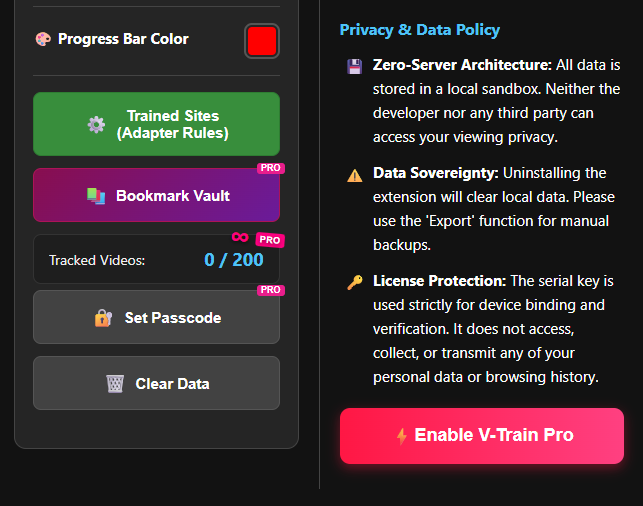
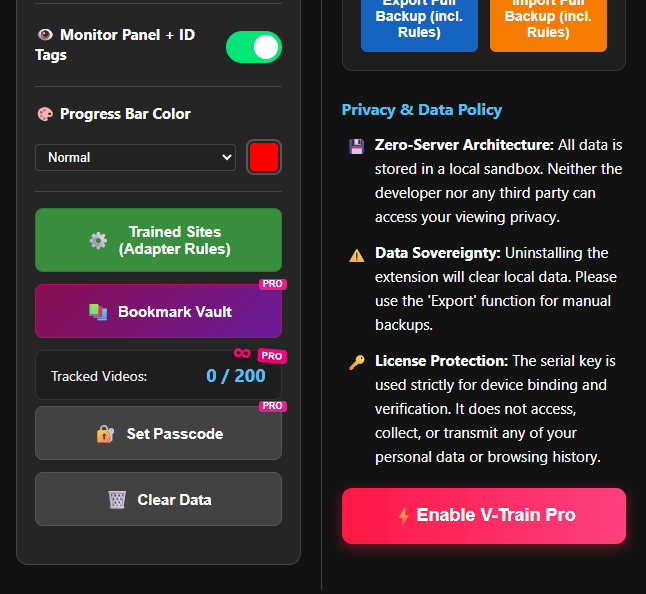
Update manual and layout for progress bar color feature

diff --git a/shared_i18n.js b/shared_i18n.js
@@ -72,7 +72,7 @@ if (typeof globalThis._vt_i18n_loaded === 'undefined') {
             msgShareImportSuccess: "✅ Rule Imported!",
             msgShareImportFail: "❌ Invalid Serial Code",
             serialImport: "Serial Import",
-            barColor: "🎨 Progress Bar Color",
+            barColor: "🎨 Progress Bar Color", colorNormal: "Normal", colorLike: "Like (👍)", colorDislike: "Dislike (😤)",
             modalEnablePro: "⚡ Enable V-Train Pro",
             modalClearData: "⚠ Clear Data",
             modalClearDesc: "Are you sure you want to delete all watch records?<br>(Pro status and settings will be preserved)",
@@ -243,7 +243,7 @@ if (typeof globalThis._vt_i18n_loaded === 'undefined') {
             appliedTo: "已套用:", searchRules: "🔍 搜尋規則...", confirmDelRule: "確定要刪除規則：", delete: "刪除",
             share: "序號複製", pasteRule: "➕ 貼上規則", modalShareTitle: "📥 匯入單站規則", modalShareDesc: "偵測到網站規則：",
             confirmOverwrite: "⚠ 此操作將覆蓋現有規則。確定繼續？", msgShareImportSuccess: "✅ 規則匯入成功！", msgShareImportFail: "❌ 無效的序號分享碼",
-            serialImport: "序號導入", barColor: "🎨 進度條顏色", modalRescueSuccess: "✅ 救援解鎖成功！",
+            serialImport: "序號導入", barColor: "🎨 進度條顏色", colorNormal: "普通", colorLike: "喜歡 (👍)", colorDislike: "不喜歡 (😤)", modalRescueSuccess: "✅ 救援解鎖成功！",
             modalRescueSuccessDesc: "密碼已清除。<br><br>⚠ 為防止未來發生無法預期的鎖定，強烈建議您立即下載完整備份 (觀看紀錄 + 訓練規則)。",
             btnFullBackup: "📥 下載完整備份", communityRules: "🌐 瀏覽社群共享規則 (GitHub)", modalFreeLimit: "⚠ 免費版容量限制",
             modalFreeLimitDesc: "偵測到備份含有超過 200 部紀錄。由於您目前使用的是免費版本，匯入後系統將僅保留最新的 200 部 (自動清理至 190 部)。若要保留完整紀錄，請先啟用 Pro 版。<br><br>確定要繼續匯入？",
@@ -400,7 +400,7 @@ if (typeof globalThis._vt_i18n_loaded === 'undefined') {
             appliedTo: "已应用:", searchRules: "🔍 搜索规则...", confirmDelRule: "确定要删除规则：", delete: "删除",
             share: "序号复制", pasteRule: "➕ 粘贴规则", modalShareTitle: "📥 导入单站规则", modalShareDesc: "侦测到网站规则：",
             confirmOverwrite: "⚠ 此操作将覆盖现有规则。确定继续？", msgShareImportSuccess: "✅ 规则导入成功！", msgShareImportFail: "❌ 无效的序号分享码",
-            serialImport: "序号导入", barColor: "🎨 进度条颜色", modalRescueSuccess: "✅ 救援解锁成功！",
+            serialImport: "序号导入", barColor: "🎨 进度条颜色", colorNormal: "普通", colorLike: "喜欢 (👍)", colorDislike: "不喜欢 (😤)", modalRescueSuccess: "✅ 救援解锁成功！",
             modalRescueSuccessDesc: "密码已清除。<br><br>⚠ 为防止未来发生无法预期的锁定，强烈建议您立即下载完整备份 (观看记录 + 训练规则)。",
             btnFullBackup: "📥 下载完整备份", communityRules: "🌐 浏览社区共享规则 (GitHub)", modalFreeLimit: "⚠ 免费版容量限制",
             modalFreeLimitDesc: "侦测到备份含有超过 200 部记录。由于您目前使用的是免费版本，导入后系统将仅保留最新的 200 部 (自动清理至 190 部)。若要保留完整记录，请先激活 Pro 版。<br><br>确定要继续导入？",
@@ -557,7 +557,7 @@ if (typeof globalThis._vt_i18n_loaded === 'undefined') {
             appliedTo: "適用:", searchRules: "🔍 ルールを検索...", confirmDelRule: "ルールを削除しますか：", delete: "削除",
             share: "シリアルコピー", pasteRule: "➕ ルールを貼り付け", modalShareTitle: "📥 ルールのインポート", modalShareDesc: "検出されたルール：",
             confirmOverwrite: "⚠ 既存のルールが上書きされます。続行しますか？", msgShareImportSuccess: "✅ インポート成功！", msgShareImportFail: "❌ 無効なコード",
-            serialImport: "シリアル導入", barColor: "🎨 プログレスバーの色", modalRescueSuccess: "✅ 救出成功！",
+            serialImport: "シリアル導入", barColor: "🎨 プログレスバーの色", colorNormal: "普通", colorLike: "好き (👍)", colorDislike: "嫌い (😤)", modalRescueSuccess: "✅ 救出成功！",
             modalRescueSuccessDesc: "パスコードをクリアしました。<br><br>⚠ 今後のロックアウトを防ぐため、完全なバックアップ（記録＋ルール）を今すぐダウンロードしてください。",
             btnFullBackup: "📥 完全バックアップをダウンロード", communityRules: "🌐 コミュニティルールを表示 (GitHub)", modalFreeLimit: "⚠ 無料版の制限",
             modalFreeLimitDesc: "200件以上の記録が検出されました。無料版を使用しているため、最新の200件（自動で190件に整理）のみが保持されます。すべての記録を保持するにはPro版を有効にしてください。続行しますか？",
@@ -714,7 +714,7 @@ if (typeof globalThis._vt_i18n_loaded === 'undefined') {
             appliedTo: "적용됨:", searchRules: "🔍 규칙 검색...", confirmDelRule: "규칙을 삭제하시겠습니까:", delete: "삭제",
             share: "시리얼 복사", pasteRule: "➕ 규칙 붙여넣기", modalShareTitle: "📥 규칙 가져오기", modalShareDesc: "감지된 규칙:",
             confirmOverwrite: "⚠ 기존 규칙을 덮어씁니다. 계속하시겠습니까?", msgShareImportSuccess: "✅ 가져오기 성공!", msgShareImportFail: "❌ 잘못된 코드",
-            serialImport: "시리얼 가져오기", barColor: "🎨 진행률 표시줄 색상", modalRescueSuccess: "✅ 구조 성공!",
+            serialImport: "시리얼 가져오기", barColor: "🎨 진행률 표시줄 색상", colorNormal: "보통", colorLike: "좋아요 (👍)", colorDislike: "싫어요 (😤)", modalRescueSuccess: "✅ 구조 성공!",
             modalRescueSuccessDesc: "비밀번호가 삭제되었습니다。<br><br>⚠ 향후 잠금을 방지하려면 지금 전체 백업(기록 + 규칙)을 다운로드하세요.",
             btnFullBackup: "📥 전체 백업 다운로드", communityRules: "🌐 커뮤니티 규칙 보기 (GitHub)", modalFreeLimit: "⚠ 무료 버전 제한",
             modalFreeLimitDesc: "200개 이상의 기록이 감지되었습니다. 무료 버전을 사용 중이므로 최신 200개(190개로 자동 정리)만 유지됩니다. 모든 기록을 유지하려면 Pro 버전을 활성화하세요. 계속하시겠습니까?",
@@ -871,7 +871,7 @@ if (typeof globalThis._vt_i18n_loaded === 'undefined') {
             appliedTo: "Aplicado a:", searchRules: "🔍 Buscar reglas...", confirmDelRule: "Eliminar regla para", delete: "Eliminar",
             share: "Copiar serie", pasteRule: "➕ Pegar regla", modalShareTitle: "📥 Importar regla", modalShareDesc: "Regla detectada para:",
             confirmOverwrite: "⚠ Esto sobrescribirá la regla existente. ¿Continuar?", msgShareImportSuccess: "✅ ¡Regla importada!", msgShareImportFail: "❌ Código inválido",
-            serialImport: "Importar serie", barColor: "🎨 Color de la barra", modalRescueSuccess: "✅ ¡Rescate Exitoso!",
+            serialImport: "Importar serie", barColor: "🎨 Color de la barra", colorNormal: "Normal", colorLike: "Me gusta (👍)", colorDislike: "No me gusta (😤)", modalRescueSuccess: "✅ ¡Rescate Exitoso!",
             modalRescueSuccessDesc: "Código borrado.<br><br>⚠ Para evitar bloqueos, descargue una copia de seguridad completa (Registros + Reglas) ahora.",
             btnFullBackup: "📥 Descargar Copia Completa", communityRules: "🌐 Ver reglas de la comunidad (GitHub)", modalFreeLimit: "⚠ Límite de versión gratuita",
             modalFreeLimitDesc: "Más de 200 registros detectados. Como usuario gratuito, solo se mantendrán los 200 más recientes (recortados a 190). Actualice a Pro para conservarlos todos. ¿Continuar?",
@@ -1028,7 +1028,7 @@ if (typeof globalThis._vt_i18n_loaded === 'undefined') {
             appliedTo: "Appliqué à :", searchRules: "🔍 Rechercher...", confirmDelRule: "Supprimer la règle pour", delete: "Supprimer",
             share: "Copie de série", pasteRule: "➕ Coller la règle", modalShareTitle: "📥 Importer la règle", modalShareDesc: "Règle détectée pour :",
             confirmOverwrite: "⚠ Cela écrasera la règle existante. Continuer ?", msgShareImportSuccess: "✅ Règle importée !", msgShareImportFail: "❌ Code invalide",
-            serialImport: "Importation de série", barColor: "🎨 Couleur de la barre", modalRescueSuccess: "✅ Sauvetage Réussi !",
+            serialImport: "Importation de série", barColor: "🎨 Couleur de la barre", colorNormal: "Normal", colorLike: "J'aime (👍)", colorDislike: "Je n'aime pas (😤)", modalRescueSuccess: "✅ Sauvetage Réussi !",
             modalRescueSuccessDesc: "Code effacé.<br><br>⚠ Pour éviter de futurs blocages, veuillez télécharger une sauvegarde complète (Enregistrements + Règles) maintenant.",
             btnFullBackup: "📥 Télécharger la sauvegarde", communityRules: "🌐 Voir les règles de la communauté (GitHub)", modalFreeLimit: "⚠ Limite de la version gratuite",
             modalFreeLimitDesc: "Plus de 200 enregistrements détectés. En tant qu'utilisateur gratuit, seuls les 200 plus récents (réduits à 190) seront conservés. Passez à Pro pour tout garder. Continuer ?",
@@ -1184,7 +1184,7 @@ if (typeof globalThis._vt_i18n_loaded === 'undefined') {
             appliedTo: "Angewendet auf:", searchRules: "🔍 Regeln suchen...", confirmDelRule: "Regel löschen für", delete: "Löschen",
             share: "Seriennummer-Kopie", pasteRule: "➕ Regel einfügen", modalShareTitle: "📥 Regel importieren", modalShareDesc: "Regel erkannt für:",
             confirmOverwrite: "⚠ Dies überschreibt die bestehende Regel. Fortfahren?", msgShareImportSuccess: "✅ Regel importiert!", msgShareImportFail: "❌ Ungültiger Code",
-            serialImport: "Seriennummer-Import", barColor: "🎨 Fortschrittsbalkenfarbe", modalRescueSuccess: "✅ Rettung Erfolgreich!",
+            serialImport: "Seriennummer-Import", barColor: "🎨 Fortschrittsbalkenfarbe", colorNormal: "Normal", colorLike: "Mag ich (👍)", colorDislike: "Mag ich nicht (😤)", modalRescueSuccess: "✅ Rettung Erfolgreich!",
             modalRescueSuccessDesc: "Passcode gelöscht.<br><br>⚠ Um zukünftige Sperren zu vermeiden, laden Sie bitte jetzt ein vollständiges Backup (Aufzeichnungen + Regeln) herunter.",
             btnFullBackup: "📥 Vollständiges Backup herunterladen", communityRules: "🌐 Community-Regeln anzeigen (GitHub)", modalFreeLimit: "⚠ Limit der kostenlosen Version",
             modalFreeLimitDesc: "Über 200 Datensätze erkannt. In der kostenlosen Version werden nur die neuesten 200 (automatisch auf 190 gekürzt) behalten. Upgrade auf Pro, um alle zu behalten. Fortfahren?",

diff --git a/popup.js b/popup.js
@@ -58,6 +58,7 @@ document.addEventListener('DOMContentLoaded', () => {
     const loginMsg = document.getElementById('loginMsg');
     const toggleVisibility = document.getElementById('toggleVisibility');
     const toggleMonitorPanel = document.getElementById('toggleMonitorPanel');
+    const barColorType = document.getElementById('barColorType');
     const progressBarColor = document.getElementById('progressBarColor');
     const statusDot = document.getElementById('statusDot');
     const statusText = document.getElementById('statusText');
@@ -129,7 +130,7 @@ document.addEventListener('DOMContentLoaded', () => {
     }
 
     // 初始化資料
-    const configKeys = ['userPassword', 'isStealthMode', 'isProVersion', 'storedLicenseKey', 'enabledSites', 'remainingUses', 'userLang', 'site_config', 'showMonitorPanel', 'barColor', 'vt_video_count', 'showInteraction'];
+    const configKeys = ['userPassword', 'isStealthMode', 'isProVersion', 'storedLicenseKey', 'enabledSites', 'remainingUses', 'userLang', 'site_config', 'showMonitorPanel', 'barColor', 'barColors', 'vt_video_count', 'showInteraction'];
     chrome.storage.local.get(configKeys, async (items) => {
         // [Data Migration] Aggressively clean up legacy bloated data without loading it
         chrome.storage.local.remove(['vt_bookmarks', 'vt_ratings', 'vt_bm_folders']);
@@ -169,7 +170,22 @@ document.addEventListener('DOMContentLoaded', () => {
         toggleVisibility.checked = !isStealth; updateStatusUI(!isStealth);
         if (toggleMonitorPanel) toggleMonitorPanel.checked = items.showMonitorPanel !== false;
         if (toggleInteraction) toggleInteraction.checked = !!items.showInteraction;
-        if (progressBarColor) progressBarColor.value = items.barColor || '#ff0000';
+        let sysBarColors = items.barColors || {};
+        if (typeof sysBarColors !== 'object') sysBarColors = {};
+        if (!sysBarColors.normal) sysBarColors.normal = items.barColor || '#ff0000';
+        if (!sysBarColors.like) sysBarColors.like = sysBarColors.normal;
+        if (!sysBarColors.dislike) sysBarColors.dislike = sysBarColors.normal;
+
+        if (progressBarColor && barColorType) {
+            progressBarColor.value = sysBarColors[barColorType.value] || sysBarColors.normal;
+            barColorType.addEventListener('change', (e) => {
+                progressBarColor.value = sysBarColors[e.target.value] || sysBarColors.normal;
+            });
+            progressBarColor.addEventListener('input', (e) => {
+                sysBarColors[barColorType.value] = e.target.value;
+                chrome.storage.local.set({ barColors: sysBarColors, barColor: sysBarColors.normal });
+            });
+        }
         updateProUI(isPro, items.vt_video_count || 0);
 
         // Interaction Toggle Event
@@ -632,11 +648,7 @@ document.addEventListener('DOMContentLoaded', () => {
         });
     }
 
-    if (progressBarColor) {
-        progressBarColor.addEventListener('input', (e) => {
-            chrome.storage.local.set({ barColor: e.target.value });
-        });
-    }
+
 
     // ★★★ 核心修正：驗證邏輯與錯誤代碼接接 ★★★
     btnDonateUpgrade.addEventListener('click', async () => {

diff --git a/content.js b/content.js
@@ -36,6 +36,7 @@ if (!window._vtInjected) {
         _cachedId: null,
         _showMonitor: true,
         barColor: "#ff0000",
+        barColors: { normal: "#ff0000", like: "#ff0000", dislike: "#ff0000" },
         _flashTimer: null,
         _actionTimer: null, // [新增] 用於暫停與跳轉的統一防抖計時器
     };
@@ -177,6 +178,7 @@ if (!window._vtInjected) {
                 "userLang",
                 "showMonitorPanel",
                 "barColor",
+                "barColors",
             ],
             (data) => {
                 if (chrome.runtime.lastError) return;
@@ -202,6 +204,8 @@ if (!window._vtInjected) {
                     }
                 }
                 sysState._showMonitor = data.showMonitorPanel !== false;
+                sysState.barColor = data.barColor || "#ff0000";
+                sysState.barColors = data.barColors || { normal: sysState.barColor, like: sysState.barColor, dislike: sysState.barColor };
                 const isStealth = !!data.isStealthMode;
                 sysState.isStealth = isStealth;
                 const savedDataArr = Array.isArray(savedDataRaw)
@@ -349,17 +353,22 @@ if (!window._vtInjected) {
                     if (data.labelEl) data.labelEl.style.display = sysState._showMonitor ? "block" : "none";
                 });
             }
-            if (changes.barColor) {
-                sysState.barColor = changes.barColor.newValue || "#ff0000";
-                document
-                    .querySelectorAll(".vt-progress-bar, .vt-fake-bar > div > div")
-                    .forEach((el) =>
-                        el.style.setProperty(
-                            "background-color",
-                            sysState.barColor,
-                            "important",
-                        ),
-                    );
+            if (changes.barColor || changes.barColors) {
+                if (changes.barColor) sysState.barColor = changes.barColor.newValue || "#ff0000";
+                if (changes.barColors) {
+                    sysState.barColors = changes.barColors.newValue || { normal: sysState.barColor, like: sysState.barColor, dislike: sysState.barColor };
+                } else if (!sysState.barColors) {
+                    sysState.barColors = { normal: sysState.barColor, like: sysState.barColor, dislike: sysState.barColor };
+                }
+                if (typeof activeOverlayBars !== 'undefined') {
+                    activeOverlayBars.forEach((data) => {
+                        let color = sysState.barColors.normal || sysState.barColor || "#ff0000";
+                        const rating = window._vtRatingsCache?.[data.videoId];
+                        if (rating === 'like' && sysState.barColors.like) color = sysState.barColors.like;
+                        if (rating === 'dislike' && sysState.barColors.dislike) color = sysState.barColors.dislike;
+                        if (data.barFill) data.barFill.style.setProperty("background-color", color, "important");
+                    });
+                }
             }
             if (changes.isStealthMode) {
                 sysState.isStealth = changes.isStealthMode.newValue;

diff --git a/vt_tracker.js b/vt_tracker.js
@@ -394,15 +394,25 @@ if (!window._vtTrackerLoaded) {
         } else window._overlaySyncLoop = null;
     }
 
-    // ─── 縮圖評分角標（Badge）─────────────────────────────────────────
+    // ─── 縮圖評分角標（Badge）與顏色同步 ─────────────────────────────────────────
     function _vtUpdateBadge(data, videoId) {
+        const rating = window._vtRatingsCache?.[videoId];
+        
+        // 1. 同步進度條顏色
+        if (data.barFill) {
+            let color = sysState.barColors?.normal || sysState.barColor || "#ff0000";
+            if (rating === 'like' && sysState.barColors?.like) color = sysState.barColors.like;
+            if (rating === 'dislike' && sysState.barColors?.dislike) color = sysState.barColors.dislike;
+            data.barFill.style.setProperty("background-color", color, "important");
+        }
+
         // 若關閉了互動按鈕，則連同角標一起隱藏，還原最乾淨的 UI
         if (window._vtShowInteraction === false) {
             if (data.badgeEl) data.badgeEl.style.display = 'none';
             return;
         }
 
-        const rating = window._vtRatingsCache?.[videoId];
+
         const isBookmarked = window._vtBookmarkedSet?.has(videoId);
         const SVG_LIKE = `<svg viewBox="0 0 24 24" fill="white" stroke="black" stroke-width="2" stroke-linecap="round" stroke-linejoin="round" style="width:1.2em;height:1.2em;display:inline-block;"><path d="M14 9V5a3 3 0 0 0-3-3l-4 9v11h11.28a2 2 0 0 0 2-1.7l1.38-9a2 2 0 0 0-2-2.3zM7 22H4a2 2 0 0 1-2-2v-7a2 2 0 0 1 2-2h3"></path></svg>`;
         const SVG_DISLIKE = `<svg viewBox="0 0 24 24" fill="white" stroke="black" stroke-width="2" stroke-linecap="round" stroke-linejoin="round" style="width:1.2em;height:1.2em;display:inline-block;"><path d="M10 15v4a3 3 0 0 0 3 3l4-9V2H5.72a2 2 0 0 0-2 1.7l-1.38 9a2 2 0 0 0 2 2.3zm7-13h3a2 2 0 0 1 2 2v7a2 2 0 0 1-2 2h-3"></path></svg>`;
@@ -477,7 +487,8 @@ if (!window._vtTrackerLoaded) {
         bar.className = "vt-progress-bar";
         bar.style.width = `${pct}%`;
         bar.style.borderRadius = "4px";
-        bar.style.setProperty("background-color", sysState.barColor, "important");
+        // 顏色將在建立後由 _vtUpdateBadge 統一設定
+        // bar.style.setProperty("background-color", sysState.barColor, "important");
         const infoContainer = document.createElement("div");
         infoContainer.style.cssText = `position:absolute;bottom:8px;left:2px;display:flex;align-items:center;gap:4px;pointer-events:none;z-index:2;max-width:90%;`;
         

diff --git a/popup.html b/popup.html
@@ -79,10 +79,18 @@
                             <label class="switch"><input type="checkbox" id="toggleMonitorPanel" checked><span
                                     class="slider"></span></label>
                         </div>
-                        <div class="status-row" style="margin-bottom:16px; padding-bottom:16px;">
-                            <div class="status-info"><span class="status-label" style="font-size:15px; margin-bottom:0;"
-                                    data-i18n="barColor">Progress Bar Color</span></div>
-                            <input type="color" id="progressBarColor" class="color-picker-input" value="#ff0000">
+                        <div class="status-row" style="margin-bottom:16px; padding-bottom:16px; flex-direction: column; align-items: flex-start; gap: 10px;">
+                            <div class="status-info" style="margin-right: 0; width: 100%;">
+                                <span class="status-label" style="font-size:15px; margin-bottom:0;" data-i18n="barColor">Progress Bar Color</span>
+                            </div>
+                            <div style="display:flex; align-items:center; justify-content: space-between; width: 100%;">
+                                <select id="barColorType" style="flex: 1; margin-right: 10px; background:#222;color:#fff;border:1px solid #444;border-radius:4px;padding:4px 8px;font-size:13px;cursor:pointer;outline:none;">
+                                    <option value="normal" data-i18n="colorNormal">Normal</option>
+                                    <option value="like" data-i18n="colorLike">Like (👍)</option>
+                                    <option value="dislike" data-i18n="colorDislike">Dislike (😤)</option>
+                                </select>
+                                <input type="color" id="progressBarColor" class="color-picker-input" value="#ff0000">
+                            </div>
                         </div>
                         <div style="margin-bottom:12px;">
                             <button id="btnOpenRules" class="btn-action"

diff --git a/popup.css b/popup.css
@@ -110,6 +110,8 @@ body {
 .status-info {
     flex: 1;
     margin-right: 15px;
+    overflow-wrap: break-word;
+    word-break: break-word;
 }
 
 .status-label {
@@ -262,7 +264,7 @@ input:checked+.slider:before {
 /* 💡 雙欄網格與分隔線 */
 .dashboard-grid {
     display: grid;
-    grid-template-columns: 1fr 1px 1fr;
+    grid-template-columns: minmax(0, 1fr) 1px minmax(0, 1fr);
     gap: 20px;
     align-items: stretch;
 }

diff --git a/docs/guide/dashboard.md b/docs/guide/dashboard.md
@@ -92,13 +92,14 @@ V-Train 的控制面板是您管理所有設定的核心樞紐——就像是一
 
 ### 🎨 進度條顏色（Progress Bar Color）
 
-覺得預設的**紅色**進度條看膩了？點擊顏色方塊，就會彈出系統色彩選擇器，讓您挑選任何喜歡的顏色！
+覺得預設的紅色進度條看膩了？您可以為「普通」、「喜歡(👍)」、「不喜歡(😤)」三種不同的影片評價狀態，設定專屬的進度條顏色！
 
 > ![進度條顏色選擇器](/assets/manual/12.png)
 
-- 您挑選的顏色會即時儲存
-- 所有已訓練網站的進度條都會套用這個顏色
-- 想換回紅色？在選色器輸入 `#ff0000` 即可
+- 透過下拉選單切換狀態，並點擊右側顏色方塊來挑選您喜歡的顏色
+- 所有已訓練網站的進度條都會根據您給該影片的評價，即時切換成對應的顏色
+- 如果您沒有特別設定「喜歡」或「不喜歡」的專屬顏色，系統會自動使用「普通」的顏色
+- 想換回預設紅色？在選色器輸入 `#ff0000` 即可
 
 ---
 

diff --git a/docs/en/guide/dashboard.md b/docs/en/guide/dashboard.md
@@ -92,13 +92,14 @@ When you train a new website, the rules might not work. Turn on the monitor pane
 
 ### 🎨 Progress Bar Color
 
-Do you want to change the **red** progress bar? Click the color square. A color picker will open. You can choose any color!
+Do you want to change the default red progress bar? You can set exclusive colors for three different video rating states: "Normal", "Like (👍)", and "Dislike (😤)"!
 
 > ![Progress Bar Color Picker](/assets/manual/12.png)
 
-- The color saves immediately.
-- All trained websites will use this new color.
-- To switch back to red, type `#ff0000` in the color picker.
+- Use the dropdown menu to select a state, and click the color square on the right to pick your favorite color.
+- Progress bars on all trained websites will instantly change to the corresponding color based on your rating for that video.
+- If you don't set specific colors for "Like" or "Dislike", the system will automatically use the "Normal" color.
+- To switch back to default red, type `#ff0000` in the color picker.
 
 ---
 
